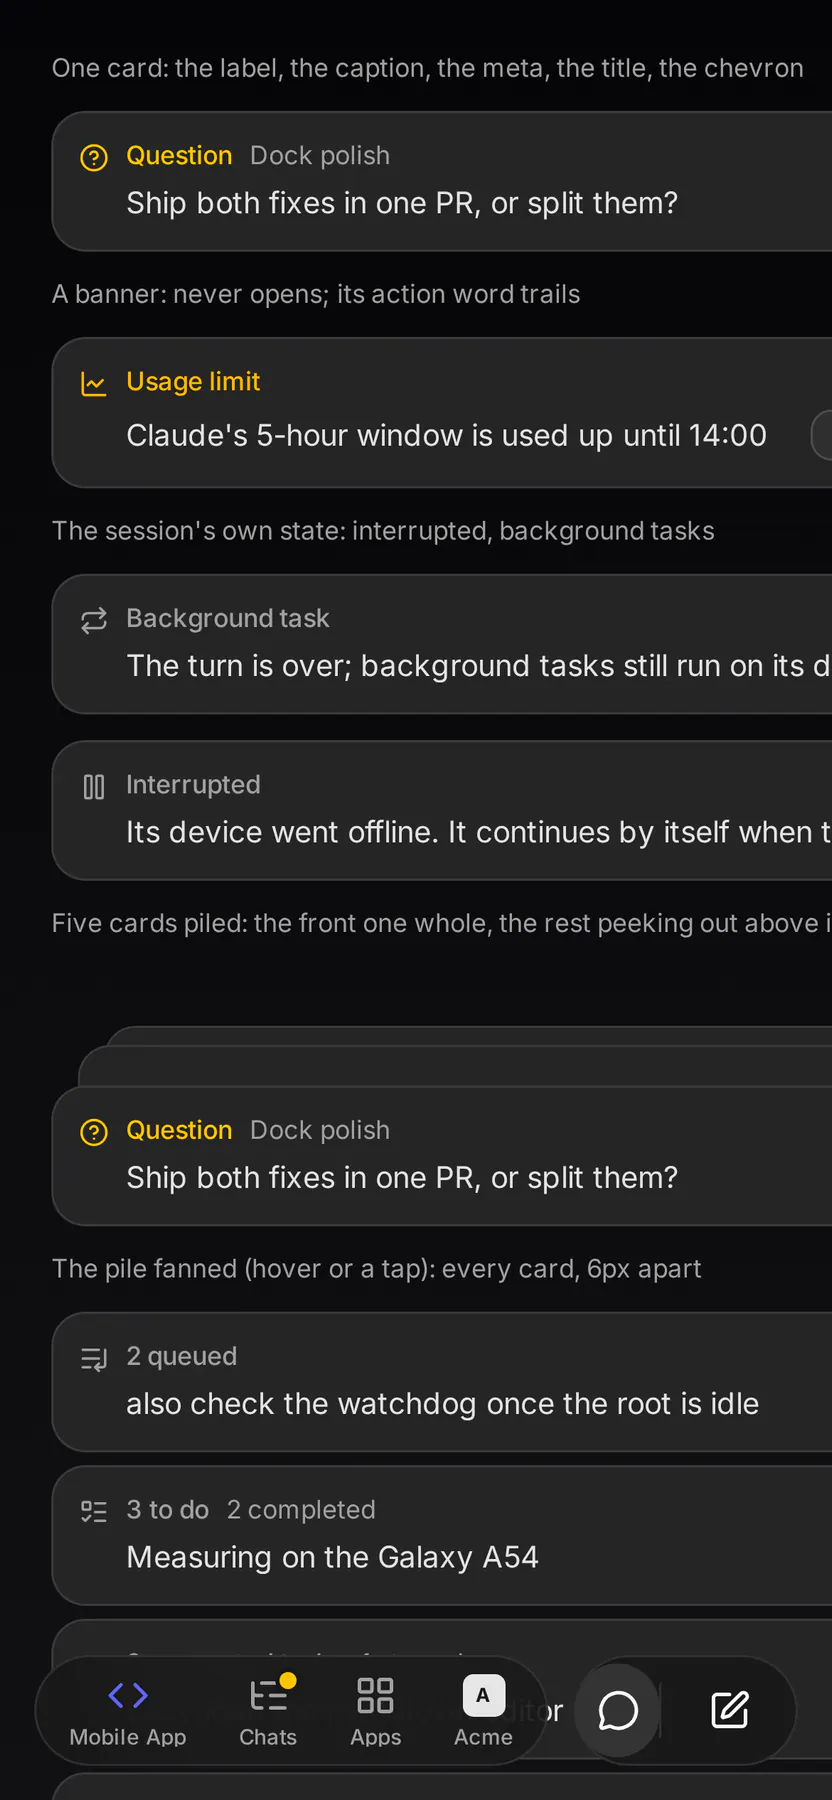
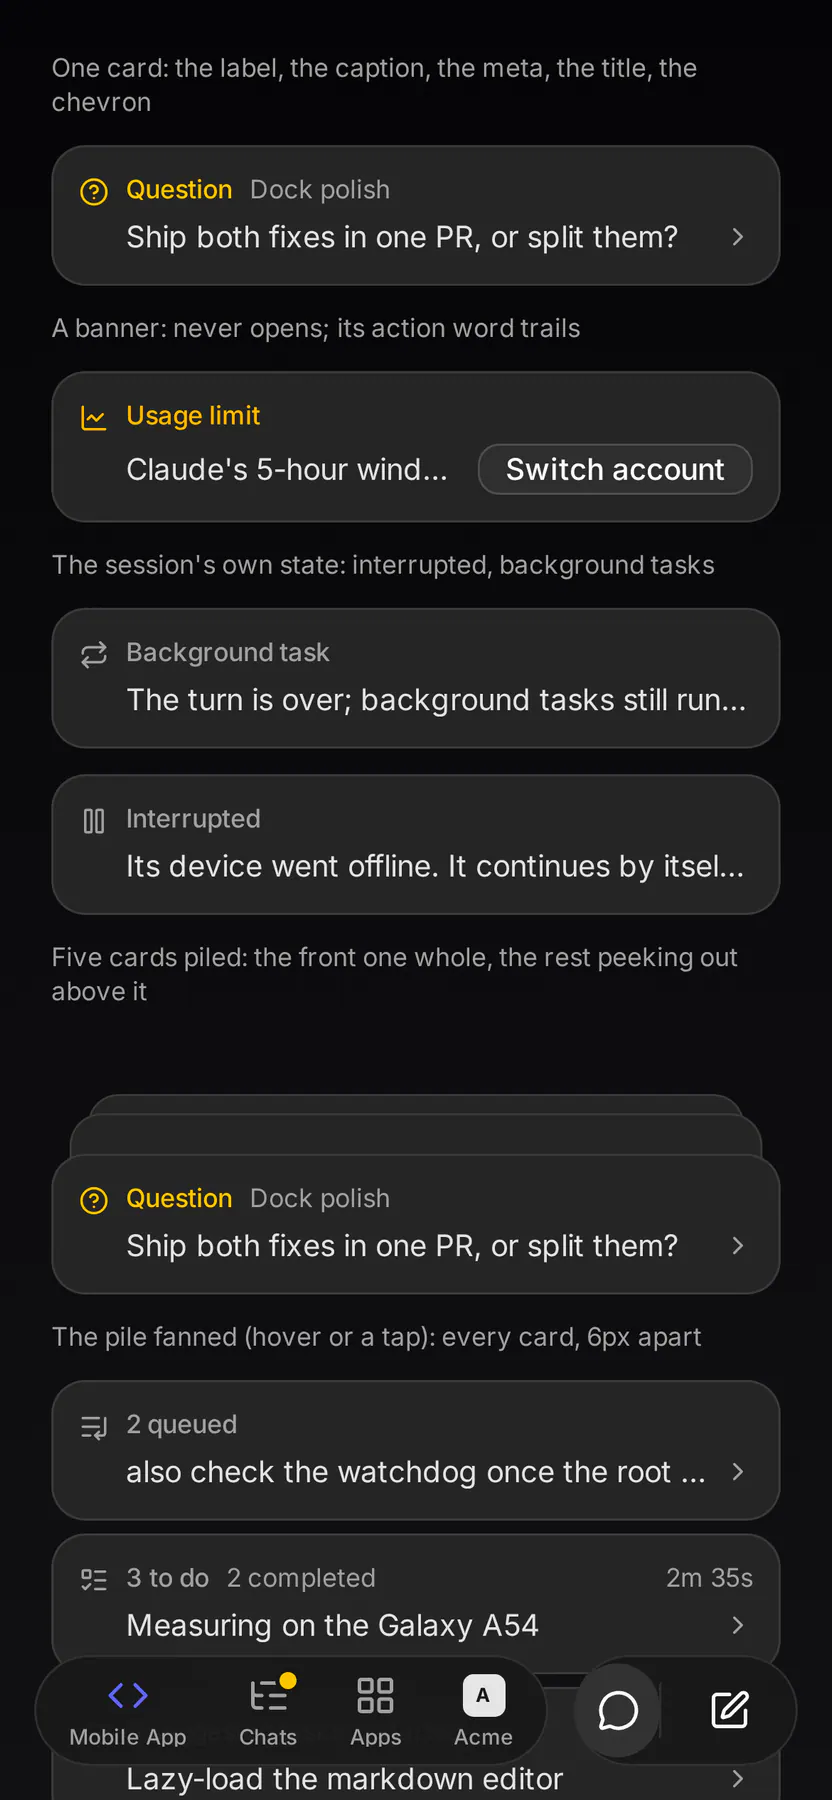
EXP-1374: the dock-card specimen's grid column never outgrows a phone (grid-cols-1)

diff --git a/packages/ui/src/dock-card-specimen.tsx b/packages/ui/src/dock-card-specimen.tsx
@@ -69,7 +69,7 @@ export function DockCardSpecimen() {
   return (
     <div data-testid="dock-card-specimen">
 
-      <div className="grid max-w-2xl gap-3">
+      <div className="grid max-w-2xl grid-cols-1 gap-3">
         <Caption>One card: the label, the caption, the meta, the title, the chevron</Caption>
         <DockCard row={QUESTION} onOpen={noop} />
         <Caption>A banner: never opens; its action word trails</Caption>
